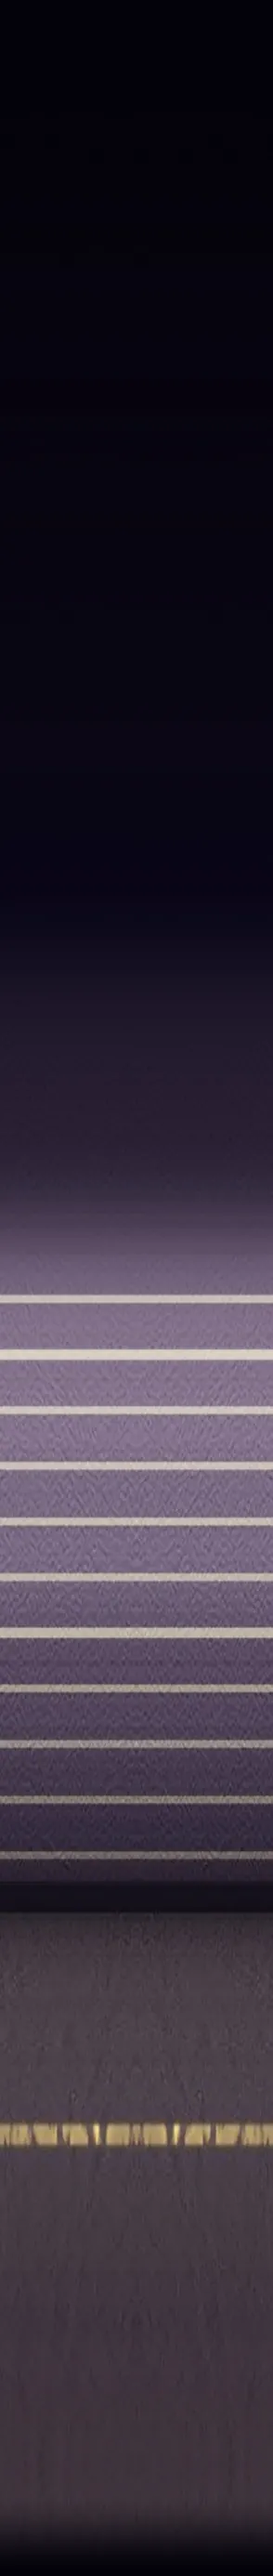
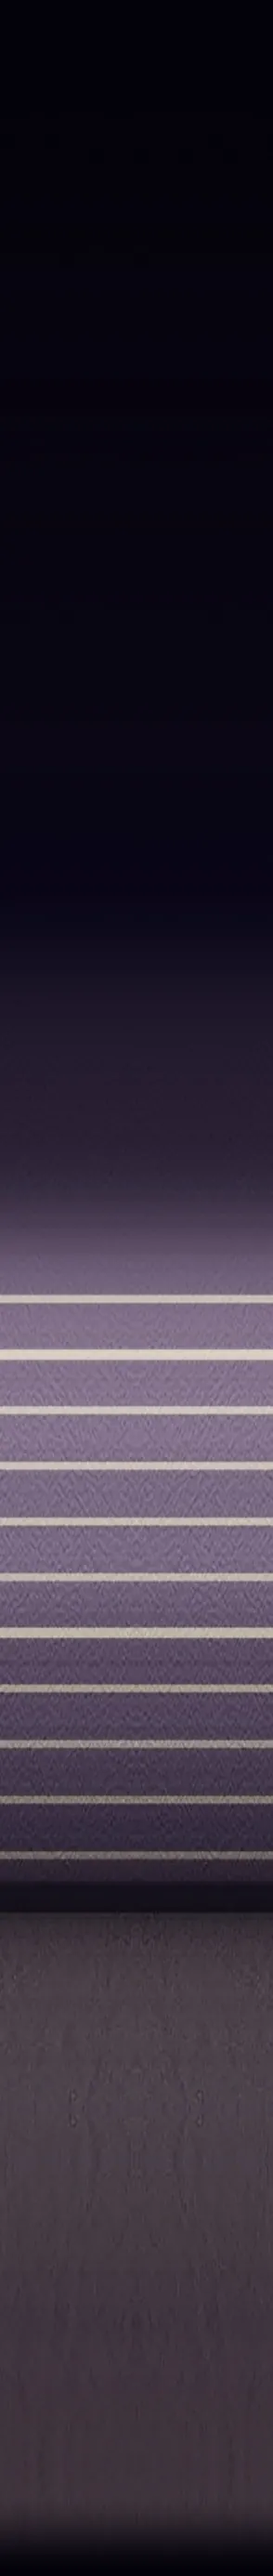
fix(ui): take the yellow line off the impostor room's floor
It read as a road. The plates are rebuilt with the floor plain, and the
floor carried past the canvas now mirrors more of it.

Claude-Session: https://claude.ai/code/session_01QQh3vBm9XFJHtGvrpd7bLu

Changed region(s): [[0.0, 0.8066, 1.0, 0.8377]]

diff --git a/src/server/news-posts.ts b/src/server/news-posts.ts
@@ -36,10 +36,10 @@ export const NEWS_POSTS: readonly NewsEntry[] = [
       ja: "インポスターのオープニングが全画面に",
     },
     body: {
-      pt: "A sala de reconhecimento agora vai de ponta a ponta em qualquer tela: a parede, o chão, a persiana e o vidro chegam até as bordas, sem faixas escuras dos lados. A régua de alturas fica só à direita.",
-      en: "The lineup room now runs edge to edge on any screen: the wall, the floor, the blinds and the glass reach the borders, with no dark bars at the sides. The height ruler sits on the right only.",
-      es: "La sala de reconocimiento ahora va de borde a borde en cualquier pantalla: la pared, el suelo, la persiana y el vidrio llegan hasta los bordes, sin franjas oscuras a los lados. La regla de alturas queda solo a la derecha.",
-      ja: "面通しの部屋がどの画面でも端から端まで広がるようになりました。壁、床、ブラインド、ガラスが画面の縁まで届き、両側の黒い帯はなくなりました。身長の目盛りは右側だけです。",
+      pt: "A sala de reconhecimento agora vai de ponta a ponta em qualquer tela: a parede, o chão, a persiana e o vidro chegam até as bordas, sem faixas escuras dos lados. A régua de alturas fica só à direita, e o chão ficou liso, sem a faixa amarela.",
+      en: "The lineup room now runs edge to edge on any screen: the wall, the floor, the blinds and the glass reach the borders, with no dark bars at the sides. The height ruler sits on the right only, and the floor is plain, without the yellow line.",
+      es: "La sala de reconocimiento ahora va de borde a borde en cualquier pantalla: la pared, el suelo, la persiana y el vidrio llegan hasta los bordes, sin franjas oscuras a los lados. La regla de alturas queda solo a la derecha, y el suelo quedó liso, sin la franja amarilla.",
+      ja: "面通しの部屋がどの画面でも端から端まで広がるようになりました。壁、床、ブラインド、ガラスが画面の縁まで届き、両側の黒い帯はなくなりました。身長の目盛りは右側だけになり、床の黄色い線もなくなりました。",
     },
   },
   {
